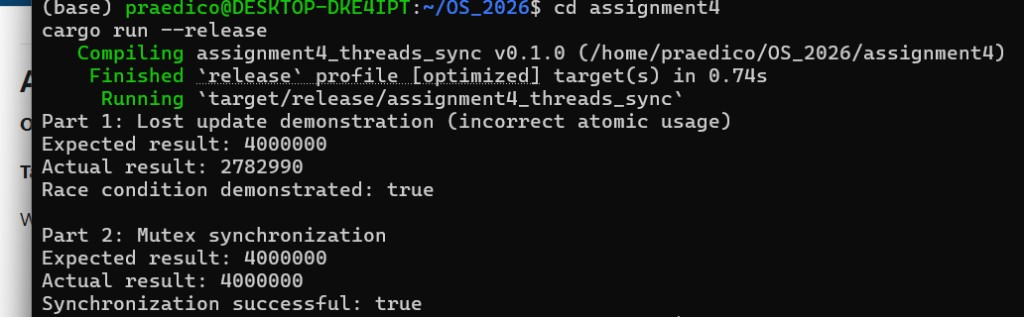
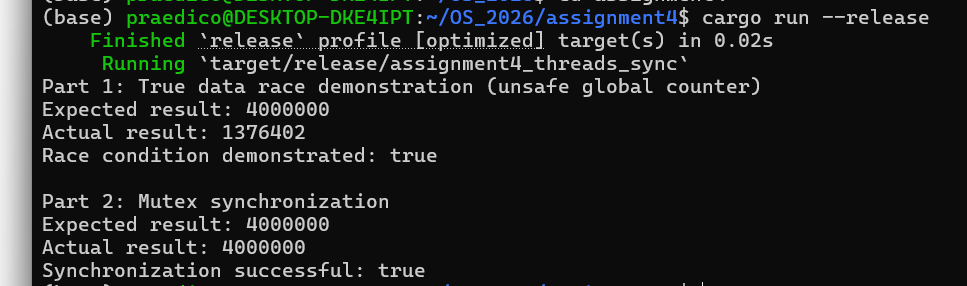
update screenshot

Changed region(s): [[0.0, 0.0, 0.9928, 0.6434], [0.0, 0.6713, 0.4343, 1.0]]

diff --git a/README.md b/README.md
@@ -60,8 +60,9 @@ Execution screenshot:
 ## Assignment 4: Threads & Synchronization
 
 A race condition happens when multiple threads access and modify shared data at the same time, and the final result depends on timing.
+By default, safe Rust prevents memory data races.
 
-In Part 1, safe Rust still prevents true memory data races, so the program demonstrates a lost update problem by intentionally using `AtomicU64` incorrectly with separate `load` and `store` operations. In Part 2, a `Mutex` protects the critical section, serializes updates, and guarantees the correct final counter value. This assignment is implemented as a small Cargo project with no external dependencies.
+In Part 1, the program intentionally uses `unsafe` with a shared `static mut` counter updated by multiple threads without synchronization. This creates a true data race (undefined behavior) for educational demonstration purposes. In Part 2, a `Mutex` protects the critical section, serializes updates, and guarantees the correct final counter value. This assignment is implemented as a small Cargo project with no external dependencies.
 
 Run command:
 